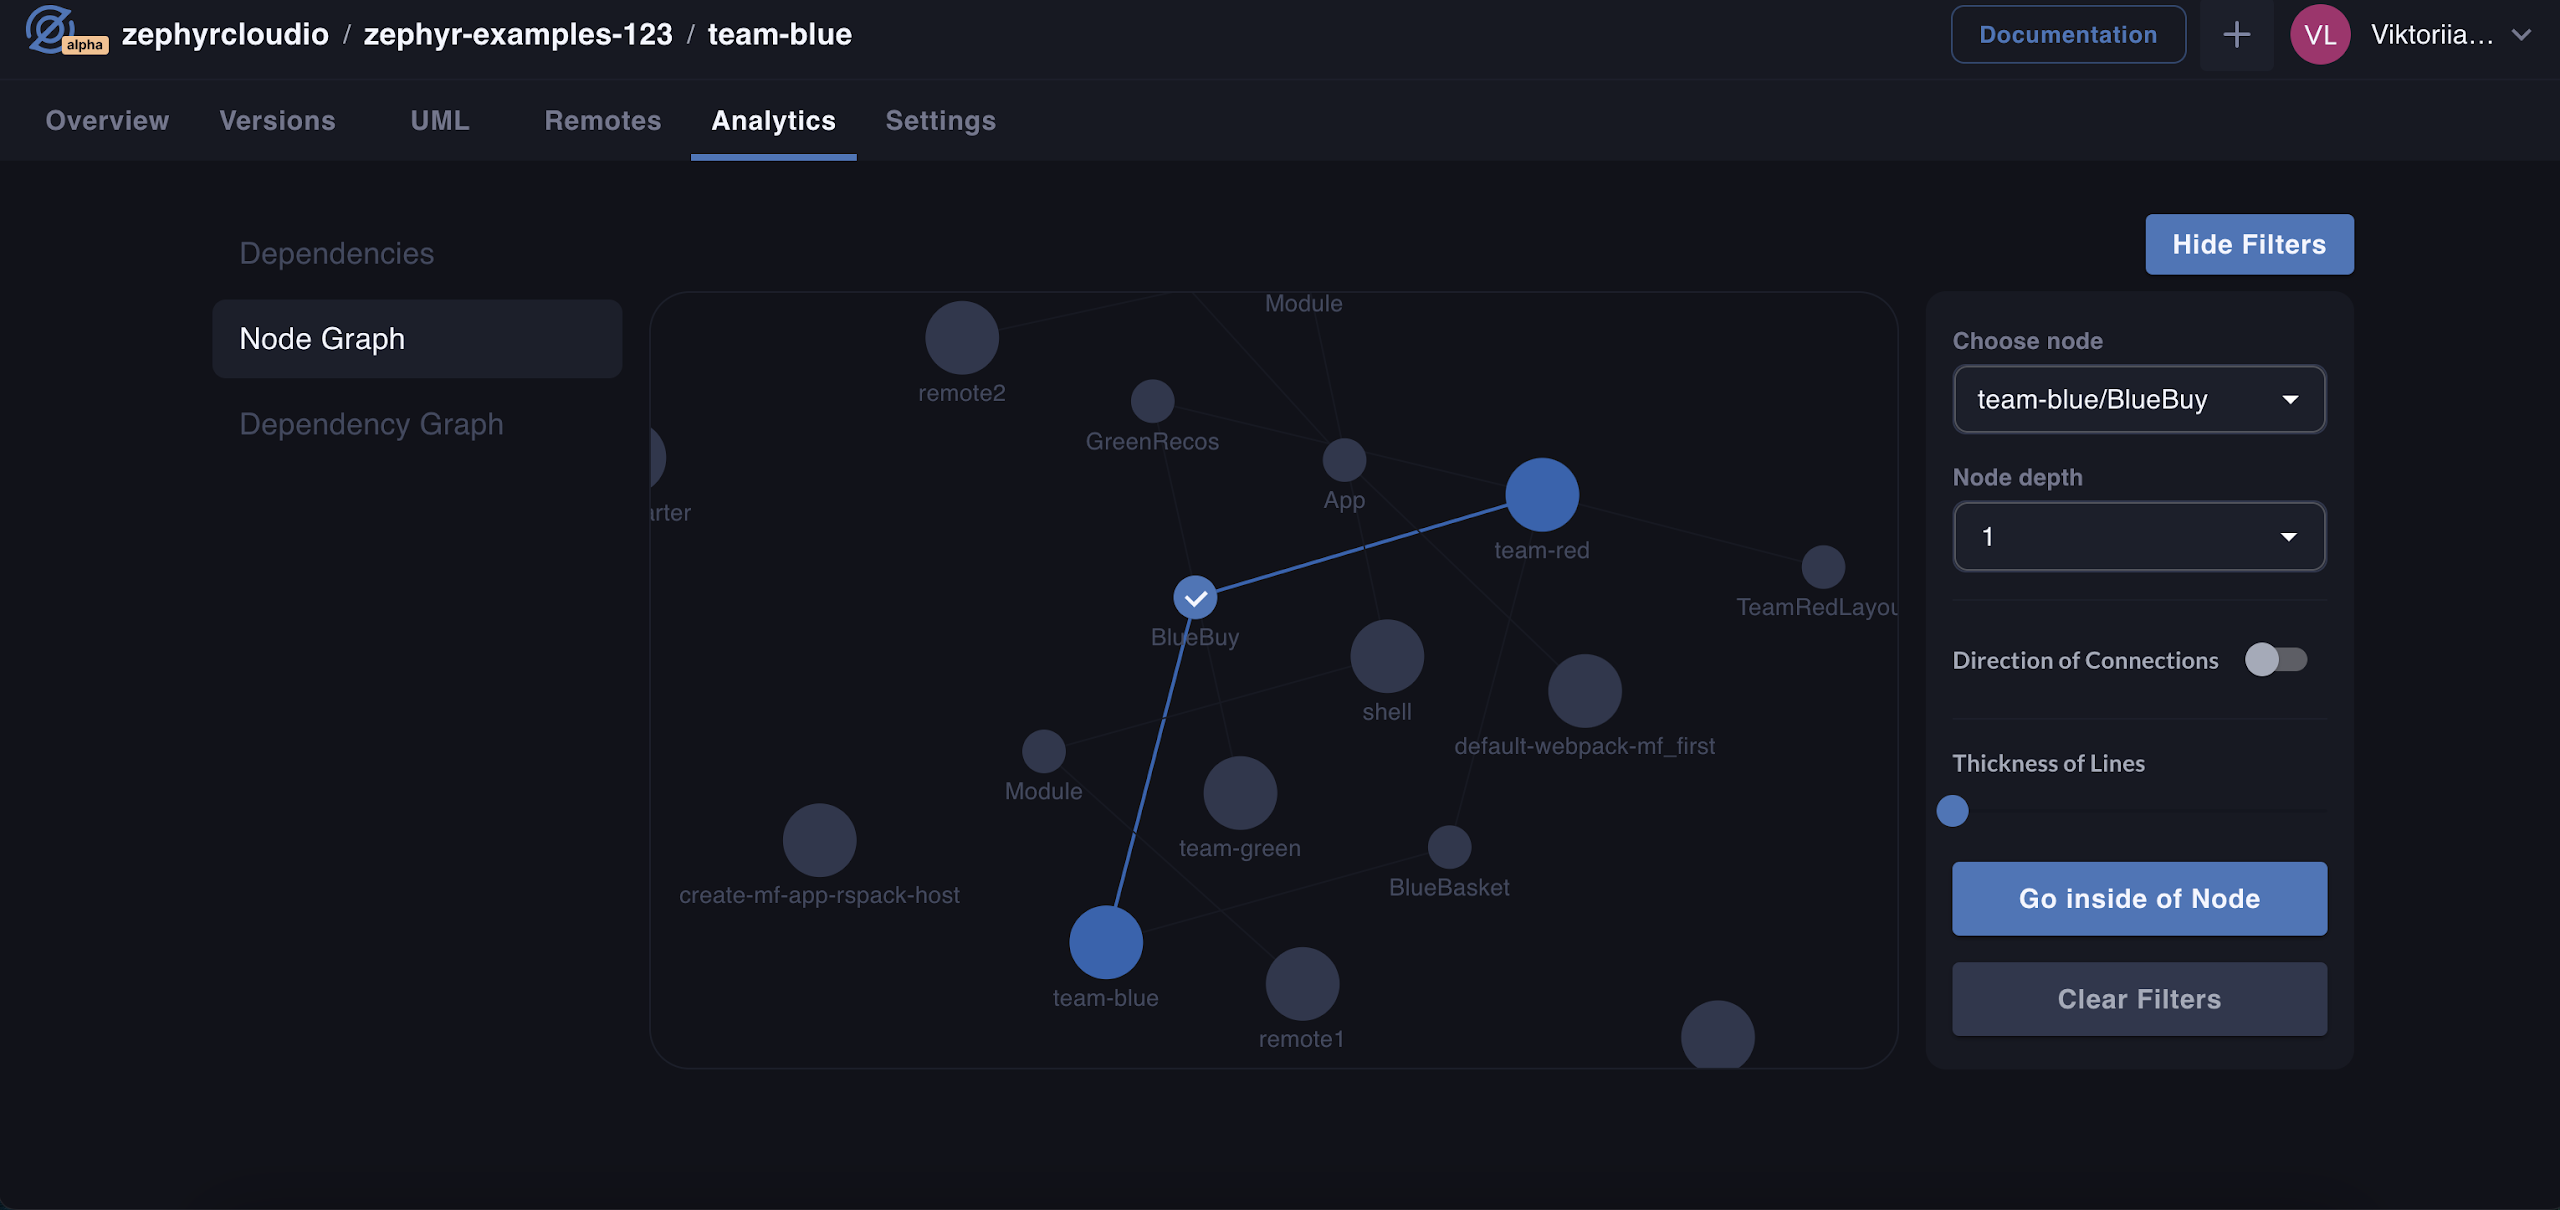
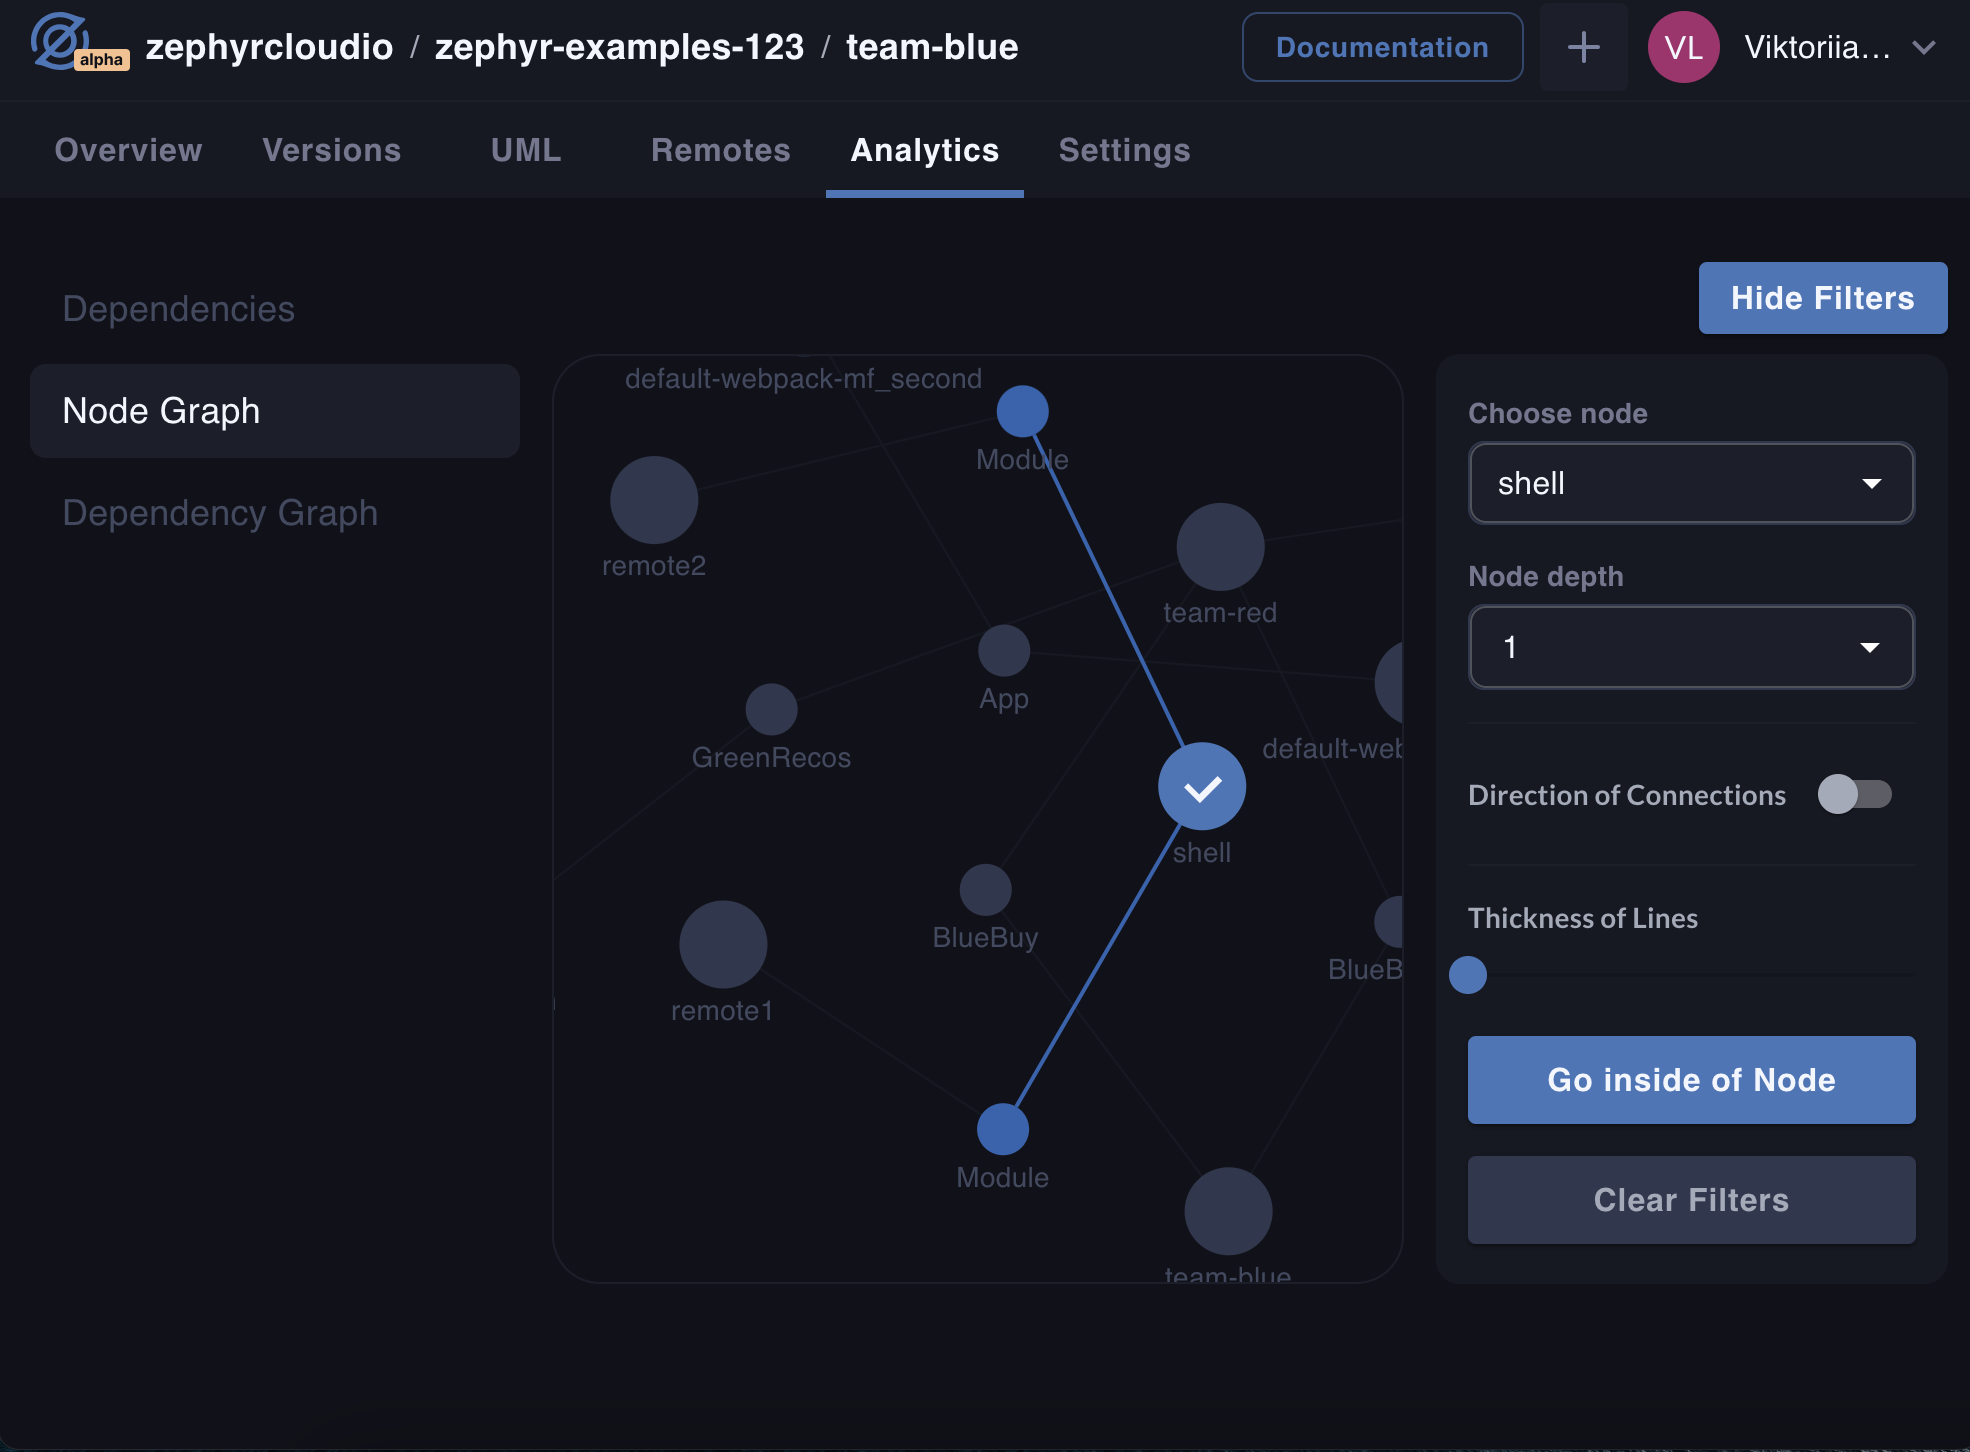
feat(portfolio): zephyr case update

diff --git a/libs/route-pages/zephyr-page/src/zephyr-page.component.html b/libs/route-pages/zephyr-page/src/zephyr-page.component.html
@@ -11,7 +11,7 @@
 				<h1 class="text-light_title_col tracking-tightest lg:text-64 text-40 lg:leading-66 leading-44 mb-10 lg:mb-12 font-bold">
                     Zephyr
                 </h1>
-				<p class="leading-6 text-grey_font_col text-16 mb-10">
+				<p class="leading-6 text-grey_font_col text-24 mb-10">
                     Zephyr Cloud is a cutting-edge platform that offers seamless integration across any cloud provider,
                     framework, or bundler, enabling developers to deploy and manage applications in seconds.
                     It is designed to accelerate development workflows with unparalleled ease of application
@@ -39,9 +39,9 @@
 	<span class="main-title block lg:mb-10 ">Background</span>
 	<div class="container">
 		<div class="flex flex-col lg:flex-row gap-10 items-center">
-			<img class="m-auto md:w-[35%]" src="assets/img/bg-img/zephyr_page/background.png" alt="">
+			<img class="m-auto md:w-[45%]" src="assets/img/bg-img/zephyr_page/background.png" alt="">
 			<div class="m-auto md:w-[100%]">
-				<p class="mb-4 text-grey_font_col text-left text-16 tracking-tightest">
+				<p class="mb-4 text-grey_font_col text-left text-24 tracking-tightest">
                     The inception of Zephyr Cloud stemmed from Valor Software's commitment to advancing software
                     development through open-source contributions, particularly in Module Federation. Building on the
                     success of its predecessor, Medusa—a pivotal tool for Federated Micro Frontends—Valor Software
@@ -201,13 +201,13 @@
 	<div class="container">
 		<div class="flex flex-col lg:flex-row gap-10 items-center">
 			<div class="lg:w-[100%]">
-				<p class="leading-6 text-16 tracking-tightest text-grey_font_col lg:mb-8 mb-14 ">
+				<p class="leading-6 text-24 tracking-tightest text-grey_font_col lg:mb-8 mb-14 ">
                     Zephyr Cloud is currently in public alpha and has already achieved significant milestones,
                     including securing $3M in Seed funding. We are exceptionally confident in the platform's
                     transformative potential and its ability to revolutionize development workflows. Our ongoing
                     development focuses on enhancing rapid deployment capabilities and adding innovative features.
                 </p>
-				<p class="leading-6 text-16 tracking-tightest text-grey_font_col">
+				<p class="leading-6 text-24 tracking-tightest text-grey_font_col">
                     We invite you to experience Zephyr Cloud’s game-changing capabilities firsthand. Contact us today
                     to schedule a personalized demo and see for yourself how our platform can redefine your development
                     process. Stay tuned for exciting updates as we continue to advance and refine our offerings.
